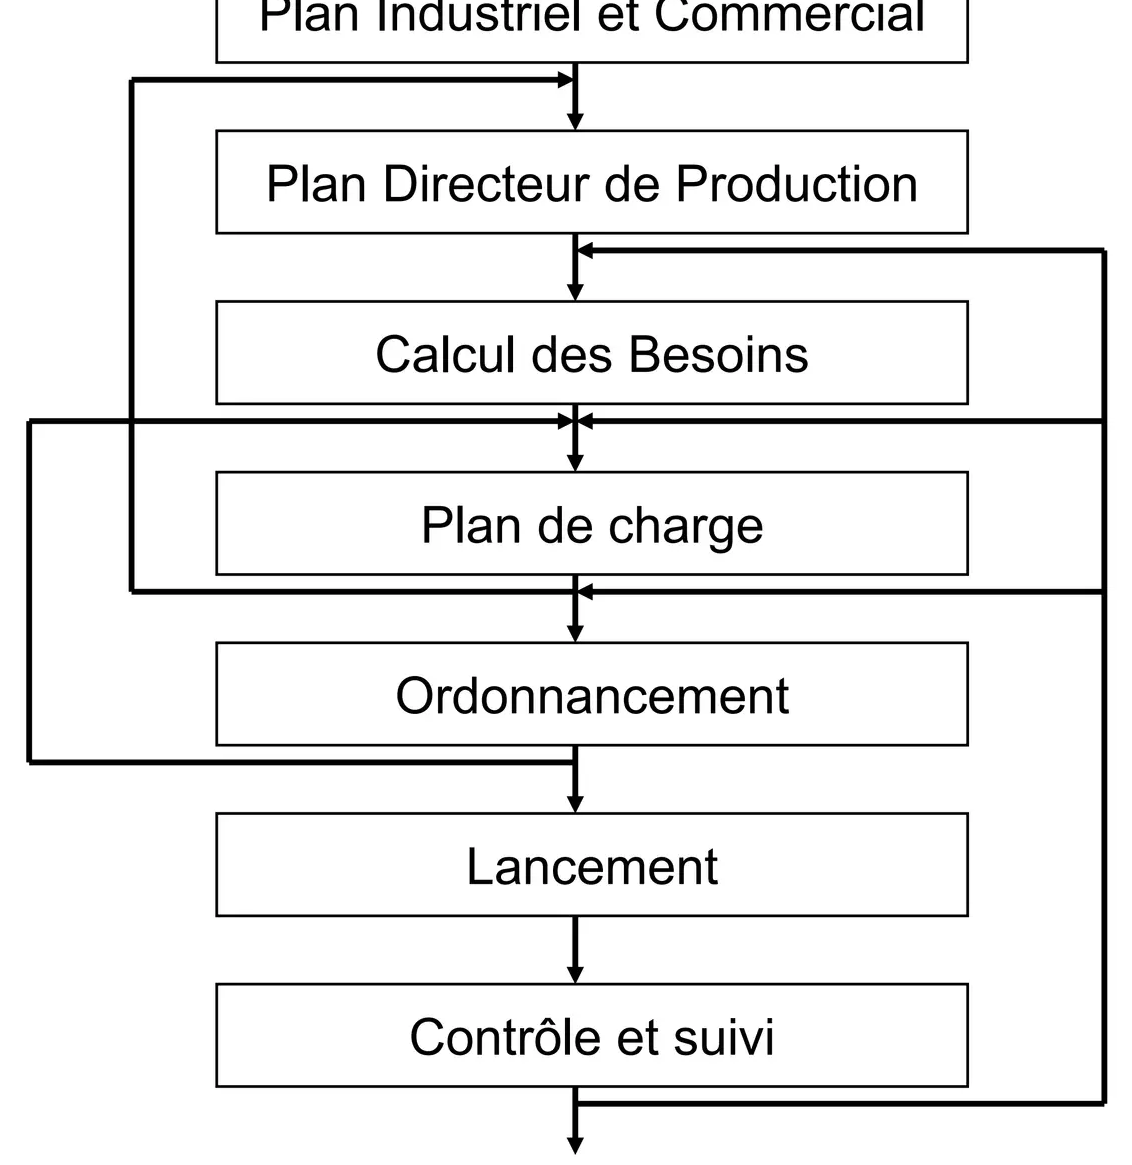
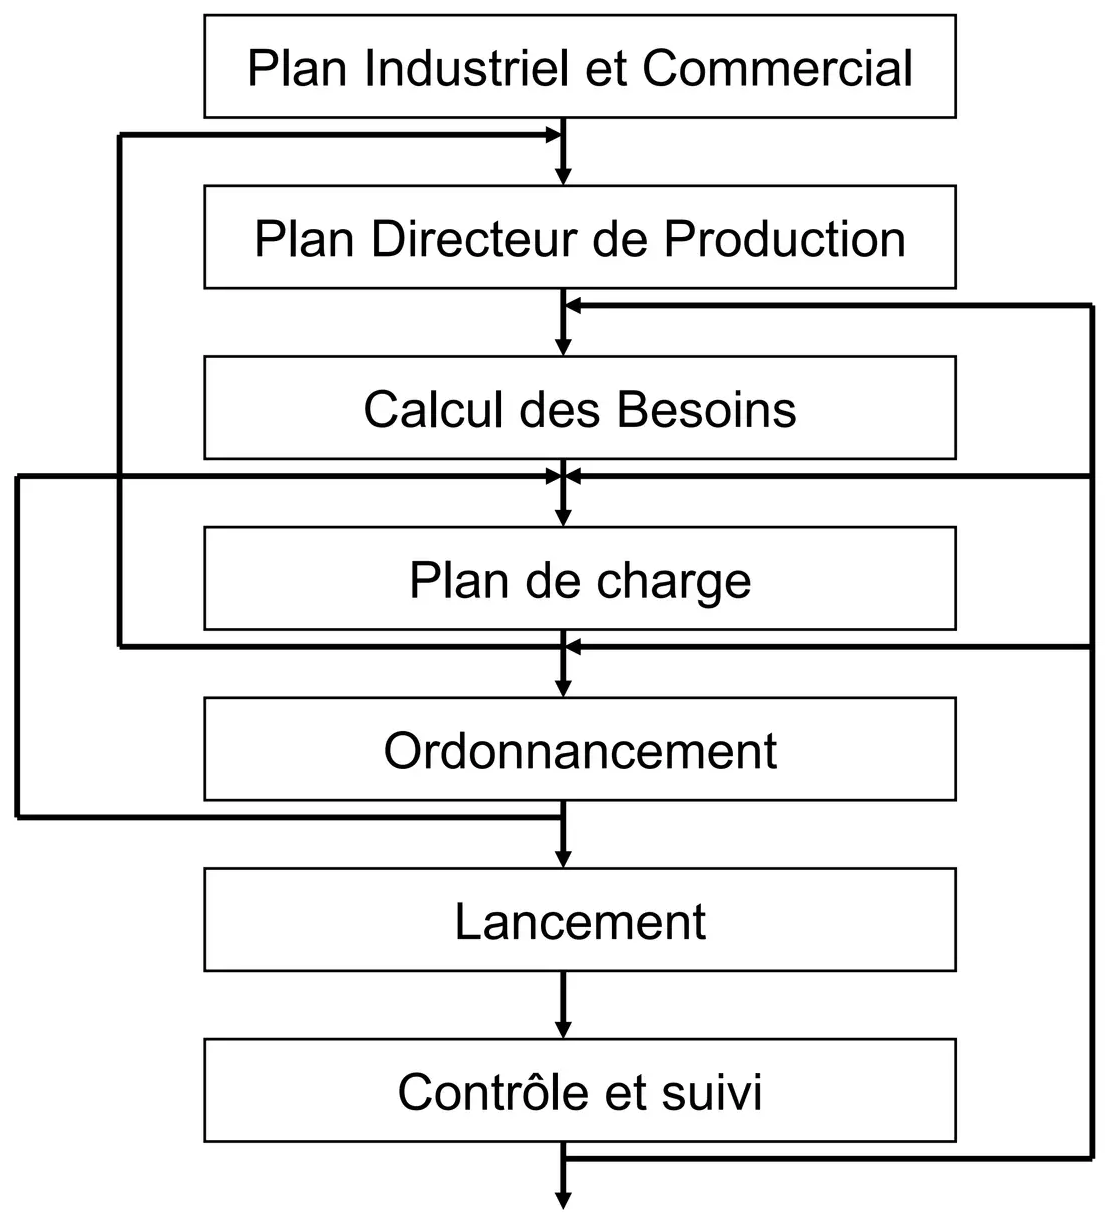
slide 63 : image MRP2 recadree complete (PIC visible) + suppression du cadre blanc

Changed region(s): [[0.0, 0.0, 1.0, 0.9888]]

diff --git a/index.html b/index.html
@@ -758,6 +758,10 @@ html,body { width:100%; height:100%; overflow:hidden; font-family:'Poppins',sans
   border-radius:5px; margin-bottom:3%; align-self:flex-start;
 }
 .slide98 .ribbon { display:none; }
+
+/* Correctif slide 63 : image MRP2 sans cadre, visible en entier */
+.slide63 .org-chart img { max-width:100%; max-height:100%; padding:0; background:none; border-radius:0; box-shadow:none; }
+.slide63 .org-chart img:hover { transform:none; box-shadow:none; }
 </style>
 </head>
 <body>
